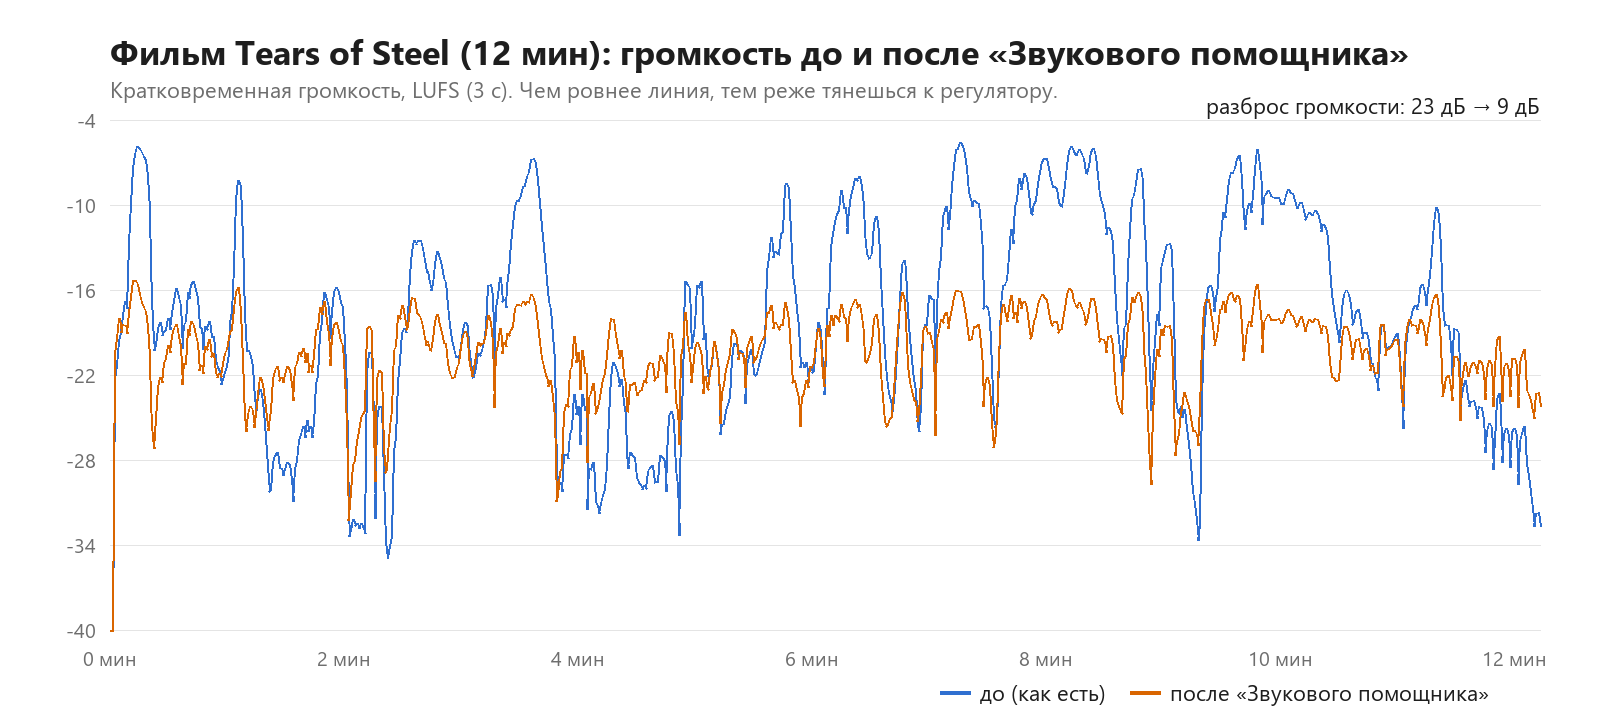
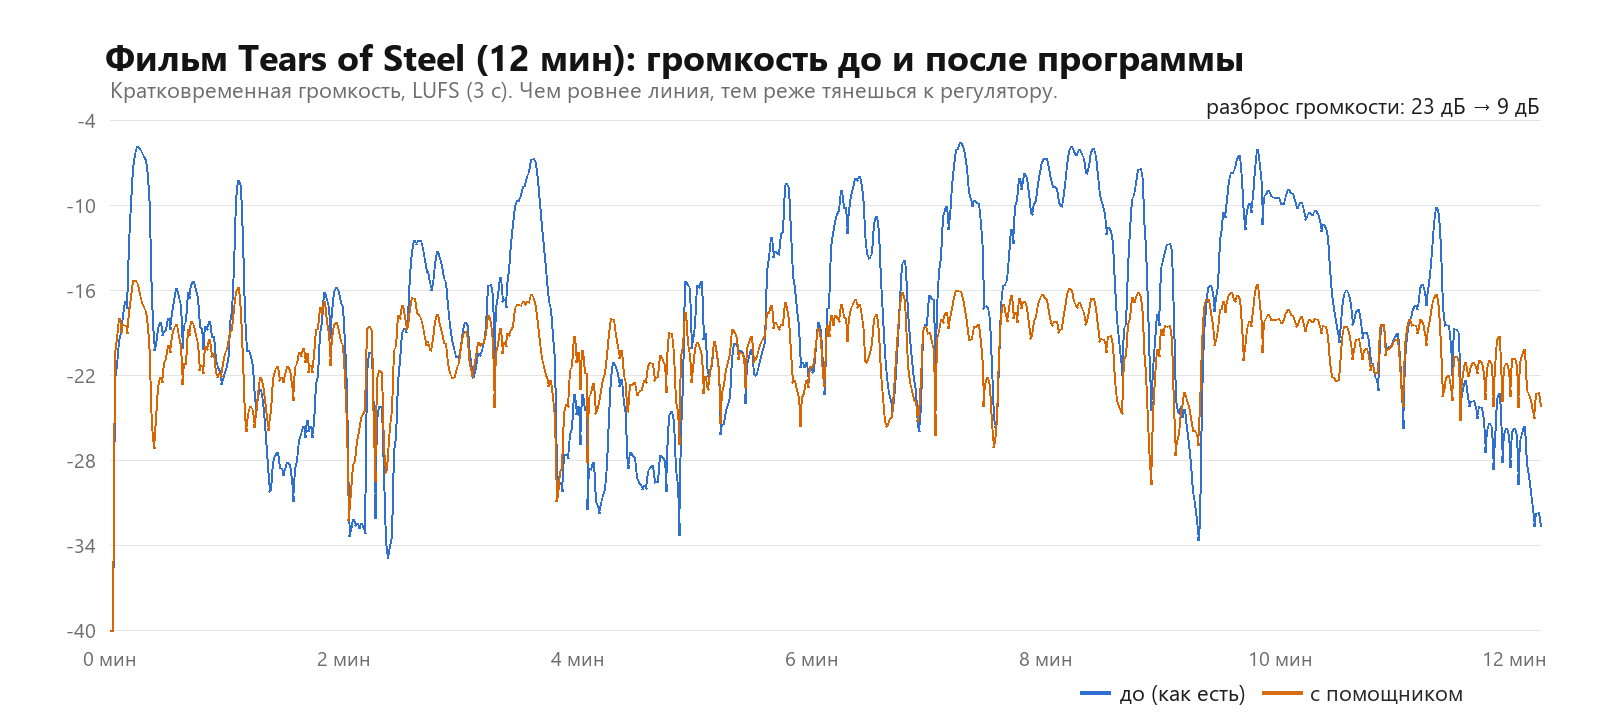
Графики: подписи с новым именем вместо «Ровно»

Changed region(s): [[0.0625, 0.0611, 0.875, 0.1222], [0.5938, 0.9472, 0.9375, 0.9778]]

diff --git a/tests/chart.py b/tests/chart.py
@@ -12,7 +12,7 @@ X=lambda i:L+(W-L-R)*i/(n-1); Y=lambda v:T+(H-T-B)*(hi-max(lo,min(hi,v)))/(hi-lo
 BLUE,ORANGE,INK,MUTED,GRID=(47,111,208),(217,101,0),(30,30,30),(110,110,110),(228,228,228)
 def frame(k):
     im=Image.new("RGB",(W,H),"white"); d=ImageDraw.Draw(im)
-    d.text((L,28),"Фильм Tears of Steel (12 мин): громкость до и после «Ровно»",fill=INK,font=FB(34))
+    d.text((L,28),"Фильм Tears of Steel (12 мин): громкость до и после программы",fill=INK,font=FB(34))
     d.text((L,74),"Кратковременная громкость, LUFS (3 с). Чем ровнее линия, тем реже тянешься к регулятору.",fill=MUTED,font=F(22))
     for v in range(lo,hi+1,6):
         d.line((L,Y(v),W-R,Y(v)),fill=GRID,width=1); d.text((L-14,Y(v)),f"{v}",fill=MUTED,font=F(20),anchor="rm")
@@ -22,7 +22,7 @@ def frame(k):
         if len(pts)>1: d.line(pts,fill=c,width=2,joint="curve")
     d.text((W-R,T-6),"разброс громкости: 23 дБ → 9 дБ",fill=INK,font=F(22),anchor="rs")
     lx=W-R-420; d.line((lx-40,H-28,lx-10,H-28),fill=BLUE,width=4); d.text((lx,H-28),"до (как есть)",fill=INK,font=F(22),anchor="lm")
-    lx2=lx+190; d.line((lx2-40,H-28,lx2-10,H-28),fill=ORANGE,width=4); d.text((lx2,H-28),"после «Ровно»",fill=INK,font=F(22),anchor="lm")
+    lx2=lx+190; d.line((lx2-40,H-28,lx2-10,H-28),fill=ORANGE,width=4); d.text((lx2,H-28),"с помощником",fill=INK,font=F(22),anchor="lm")
     return im
 frame(n).save("docs/chart.png")
 fr=[frame(int(n*i/40)).resize((800,360),Image.LANCZOS) for i in range(1,41)]
